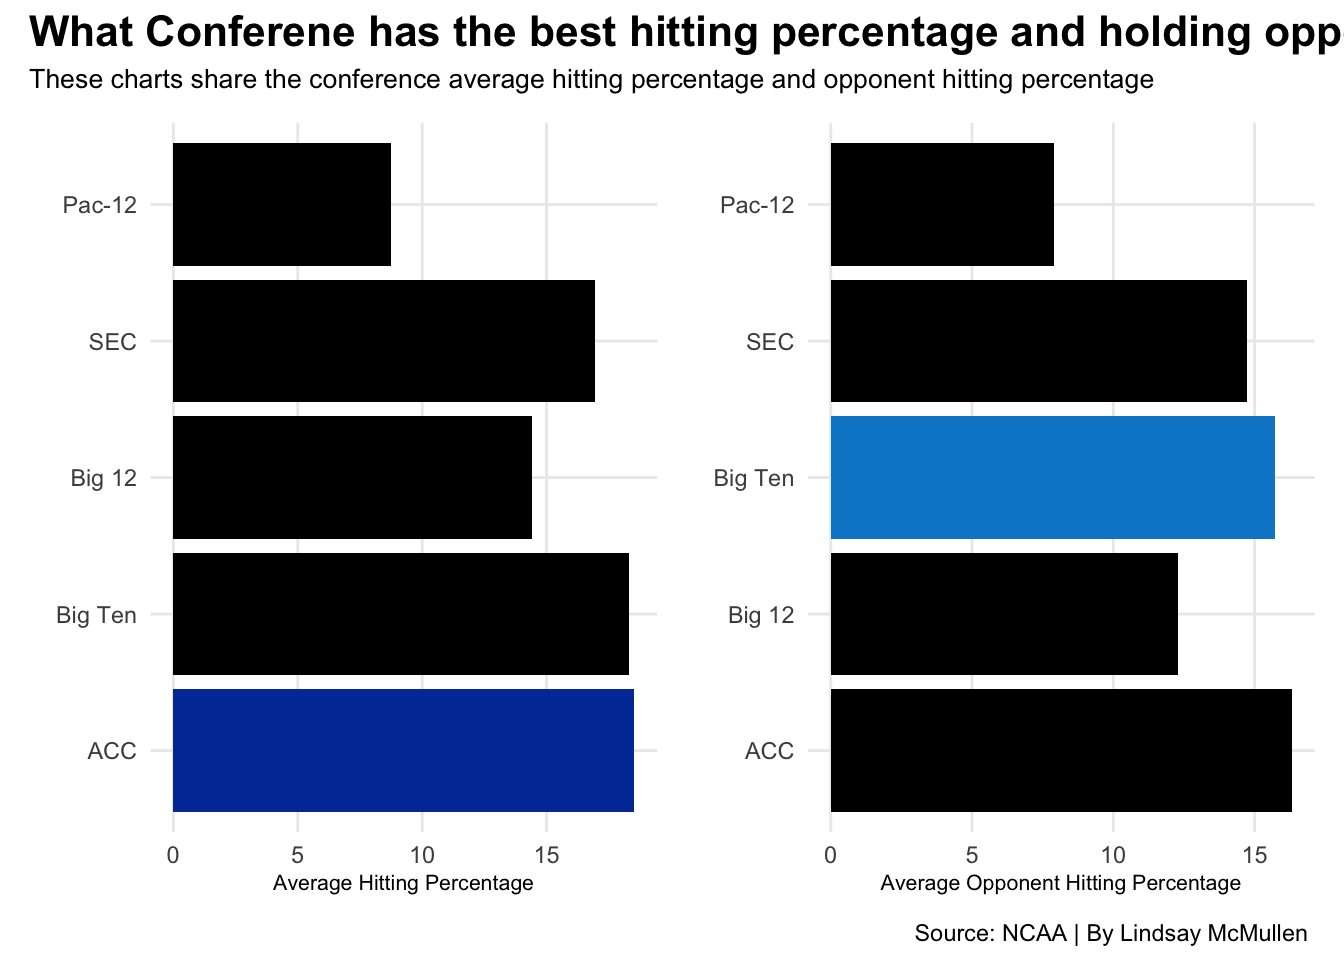
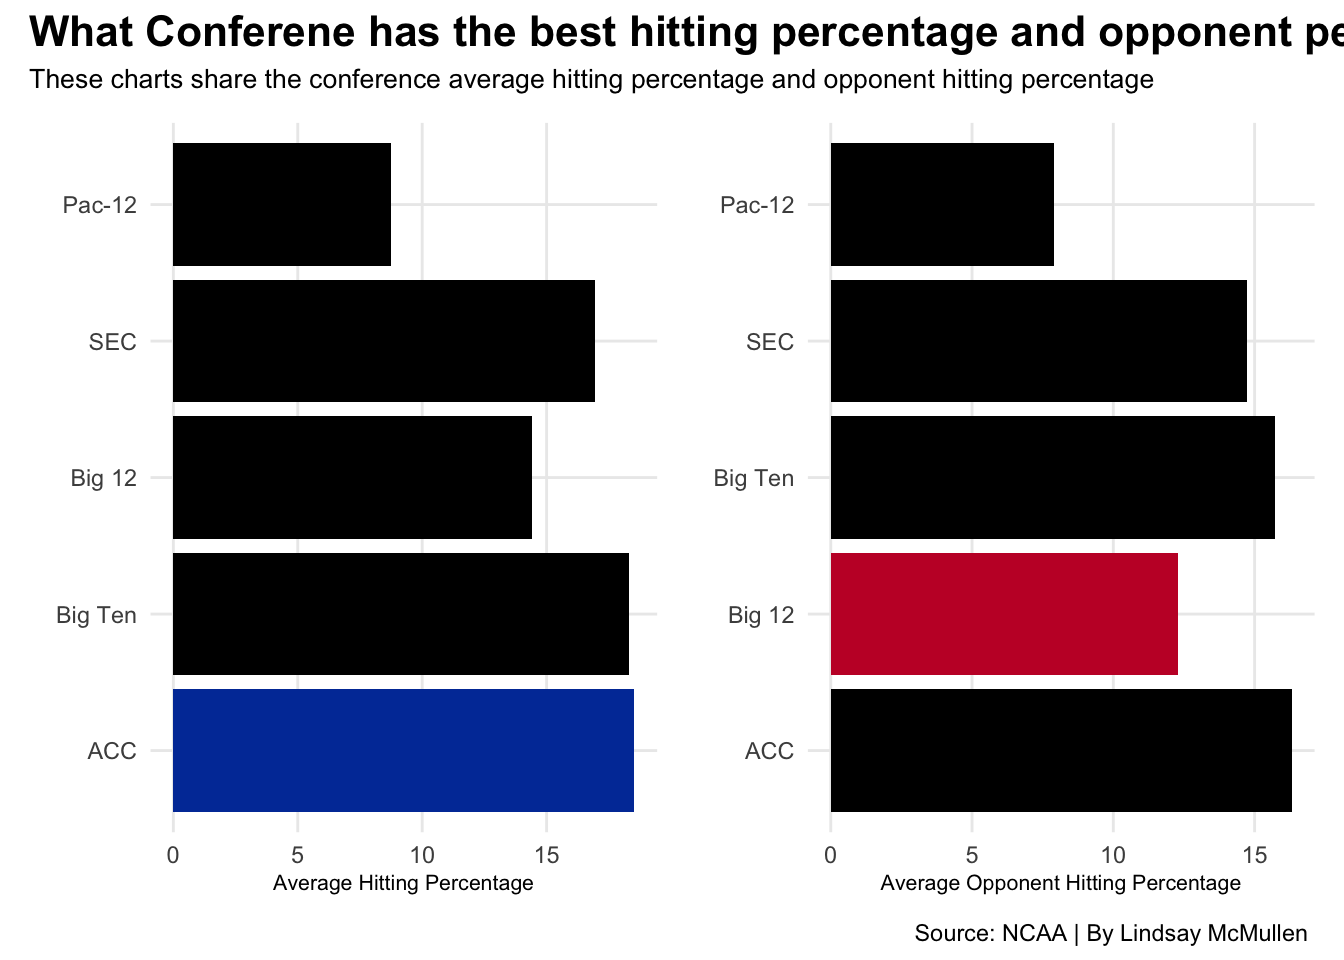
draft 2 - 11/16

Changed region(s): [[0.5938, 0.4062, 0.9688, 0.7188], [0.8125, 0.0, 1.0, 0.0625]]

diff --git a/posts/who-is-the-true-volleyball-conference/index.html b/posts/who-is-the-true-volleyball-conference/index.html
@@ -159,6 +159,7 @@ pre > code.sourceCode > span > a:first-child::before { text-decoration: underlin
                 <div class="quarto-category">women's volleyball</div>
                 <div class="quarto-category">ncaa conferences</div>
                 <div class="quarto-category">national championships</div>
+                <div class="quarto-category">viewership</div>
               </div>
                   </div>
   </div>
@@ -195,7 +196,7 @@ pre > code.sourceCode > span > a:first-child::before { text-decoration: underlin
 
 
 
-<p>The Big Ten historically has been known as the power conference of women’s volleyball, but lately that has become more of a conversation. With No.&nbsp;3 Texas joining the SEC along with No.&nbsp;2 Kentucky, spectators think SEC deserves the title. What people don’t realize is the Pac-12 should’ve been considered the power conference with the most national championships.</p>
+<p>The Big Ten historically has been known as the power conference of women’s volleyball, lately that has become more of a conversation. No.&nbsp;3 Texas became a new edition to the SEC alongside the No.&nbsp;2 Kentucky, spectators think SEC deserves the title. What people don’t realize is the Pac-12 should’ve been considered the power conference with the most national championships. The conversation has included the Big 10, SEC and ACC teams with their most recent dominate seasons over the past 5 years.</p>
 <div class="cell">
 <details class="code-fold">
 <summary>Code</summary>
@@ -214,7 +215,7 @@ pre > code.sourceCode > span > a:first-child::before { text-decoration: underlin
 <span id="cb1-13"><a href="#cb1-13" aria-hidden="true" tabindex="-1"></a>    <span class="at">total_attacks =</span> <span class="fu">mean</span>(hit_pct)</span>
 <span id="cb1-14"><a href="#cb1-14" aria-hidden="true" tabindex="-1"></a>  ) </span>
 <span id="cb1-15"><a href="#cb1-15" aria-hidden="true" tabindex="-1"></a></span>
-<span id="cb1-16"><a href="#cb1-16" aria-hidden="true" tabindex="-1"></a>big10 <span class="ot">&lt;-</span> pc <span class="sc">|&gt;</span> <span class="fu">filter</span>(conference <span class="sc">==</span> <span class="st">"Big Ten"</span>)</span>
+<span id="cb1-16"><a href="#cb1-16" aria-hidden="true" tabindex="-1"></a>big12 <span class="ot">&lt;-</span> pc <span class="sc">|&gt;</span> <span class="fu">filter</span>(conference <span class="sc">==</span> <span class="st">"Big 12"</span>)</span>
 <span id="cb1-17"><a href="#cb1-17" aria-hidden="true" tabindex="-1"></a>acc <span class="ot">&lt;-</span> pc <span class="sc">|&gt;</span> <span class="fu">filter</span>(conference <span class="sc">==</span> <span class="st">"ACC"</span>)</span>
 <span id="cb1-18"><a href="#cb1-18" aria-hidden="true" tabindex="-1"></a></span>
 <span id="cb1-19"><a href="#cb1-19" aria-hidden="true" tabindex="-1"></a>bar1 <span class="ot">&lt;-</span> <span class="fu">ggplot</span>() <span class="sc">+</span> </span>
@@ -229,7 +230,7 @@ pre > code.sourceCode > span > a:first-child::before { text-decoration: underlin
 <span id="cb1-28"><a href="#cb1-28" aria-hidden="true" tabindex="-1"></a></span>
 <span id="cb1-29"><a href="#cb1-29" aria-hidden="true" tabindex="-1"></a>bar2 <span class="ot">&lt;-</span> <span class="fu">ggplot</span>() <span class="sc">+</span> </span>
 <span id="cb1-30"><a href="#cb1-30" aria-hidden="true" tabindex="-1"></a>  <span class="fu">geom_bar</span>(<span class="at">data=</span>pc, <span class="fu">aes</span>(<span class="at">x=</span><span class="fu">reorder</span>(conference, opponent_hit_pct), <span class="at">weight=</span>opponent_hit_pct), <span class="at">fill=</span><span class="st">"#000000"</span>) <span class="sc">+</span> </span>
-<span id="cb1-31"><a href="#cb1-31" aria-hidden="true" tabindex="-1"></a>  <span class="fu">geom_bar</span>(<span class="at">data=</span>big10, <span class="fu">aes</span>(<span class="at">x=</span><span class="fu">reorder</span>(conference, opponent_hit_pct), <span class="at">weight=</span>opponent_hit_pct), <span class="at">fill=</span><span class="st">"#0088CE"</span>) <span class="sc">+</span></span>
+<span id="cb1-31"><a href="#cb1-31" aria-hidden="true" tabindex="-1"></a>  <span class="fu">geom_bar</span>(<span class="at">data=</span>big12, <span class="fu">aes</span>(<span class="at">x=</span><span class="fu">reorder</span>(conference, opponent_hit_pct), <span class="at">weight=</span>opponent_hit_pct), <span class="at">fill=</span><span class="st">"#C41230"</span>) <span class="sc">+</span></span>
 <span id="cb1-32"><a href="#cb1-32" aria-hidden="true" tabindex="-1"></a>  <span class="fu">coord_flip</span>() <span class="sc">+</span> </span>
 <span id="cb1-33"><a href="#cb1-33" aria-hidden="true" tabindex="-1"></a>  <span class="fu">labs</span>( </span>
 <span id="cb1-34"><a href="#cb1-34" aria-hidden="true" tabindex="-1"></a>    <span class="at">x=</span><span class="st">""</span>, </span>
@@ -239,7 +240,7 @@ pre > code.sourceCode > span > a:first-child::before { text-decoration: underlin
 <span id="cb1-38"><a href="#cb1-38" aria-hidden="true" tabindex="-1"></a></span>
 <span id="cb1-39"><a href="#cb1-39" aria-hidden="true" tabindex="-1"></a>bar1 <span class="sc">+</span> bar2 <span class="sc">+</span> </span>
 <span id="cb1-40"><a href="#cb1-40" aria-hidden="true" tabindex="-1"></a>  <span class="fu">plot_annotation</span>( </span>
-<span id="cb1-41"><a href="#cb1-41" aria-hidden="true" tabindex="-1"></a>    <span class="at">title =</span> <span class="st">"What Conferene has the best hitting percentage and holding opponent percentage over the past 5 years?"</span>,</span>
+<span id="cb1-41"><a href="#cb1-41" aria-hidden="true" tabindex="-1"></a>    <span class="at">title =</span> <span class="st">"What Conferene has the best hitting percentage and opponent percentage over the past 5 years?"</span>,</span>
 <span id="cb1-42"><a href="#cb1-42" aria-hidden="true" tabindex="-1"></a>    <span class="at">subtitle =</span> <span class="st">"These charts share the conference average hitting percentage and opponent hitting percentage"</span>,</span>
 <span id="cb1-43"><a href="#cb1-43" aria-hidden="true" tabindex="-1"></a>    <span class="at">caption =</span> <span class="st">"Source: NCAA | By Lindsay McMullen "</span></span>
 <span id="cb1-44"><a href="#cb1-44" aria-hidden="true" tabindex="-1"></a>  )  <span class="sc">&amp;</span> </span>
@@ -258,7 +259,7 @@ pre > code.sourceCode > span > a:first-child::before { text-decoration: underlin
 </div>
 </div>
 </div>
-<p>The main</p>
+<p>The main statistics that viewers and announcers look at when it comes to determining a conference’s dominance is hitting percentage and opponent hitting percentage. The ACC has had the highest hitting percentage with teams like Pitt, Louisville and new edition Stanford leading the conference. The Big 12 over the past years has had the best opponent hitting percentage, the lower the number the better.</p>
 <div class="cell">
 <details class="code-fold">
 <summary>Code</summary>
@@ -300,8 +301,7 @@ pre > code.sourceCode > span > a:first-child::before { text-decoration: underlin
 </div>
 </div>
 </div>
-<p>Words words words words words. Words words words words words. Words words words words words. Words words words words words. Words words words words words. Words words words words words. Words words words words words. Words words words words words. Words words words words words. Words words words words words. Words words words words words.</p>
-<p>Words words words words words. Words words words words words. Words words words words words. Words words words words words. Words words words words words. Words words words words words. Words words words words words.</p>
+<p>During the past 5 years, there has been new additions and removals of the Power 5 now Power 4 conferences. The Pac-12 historically was a power volleyball conference with Stanford, UCLA, USC, Oregon and Washington but now they are divided. The Big 10 added 4 new teams that are strong teams usually in the 25. The SEC has added Oklahoma and Texas, and Texas is a powerful volleyball team that has grown the competition in the SEC. The Big 12 got new additions with Colorado being in the top 25 this year.</p>
 <div class="cell">
 <details class="code-fold">
 <summary>Code</summary>
@@ -337,7 +337,8 @@ pre > code.sourceCode > span > a:first-child::before { text-decoration: underlin
 </div>
 </div>
 </div>
-<p>Words words words words words. Words words words words words. Words words words words words. Words words words words words. Words words words words words. Words words words words words. Words words words words words. Words words words words words. Words words words words words. Words words words words words. Words words words words words. Words words words words words.</p>
+<p>The ACC has had teams in the national championship and final four every year, but they have yet to win a title. The Pac-12 leads the national title race with 17 and Stanford leading the conference. The Big 12 is 2nd or currently leads the national championship race with 15. The Big 10 has 13 national titles.</p>
+<p>What conference will win the next one?</p>
 <div class="cell">
 <details class="code-fold">
 <summary>Code</summary>

diff --git a/index.html b/index.html
@@ -195,7 +195,7 @@ window.Quarto = {
 <!-- margin-sidebar -->
     <div id="quarto-margin-sidebar" class="sidebar margin-sidebar">
         
-    <h5 class="quarto-listing-category-title">Categories</h5><div class="quarto-listing-category category-default"><div class="category" data-category="">All <span class="quarto-category-count">(1)</span></div><div class="category" data-category="bmF0aW9uYWwlMjBjaGFtcGlvbnNoaXBz">national championships <span class="quarto-category-count">(1)</span></div><div class="category" data-category="bmNhYSUyMGNvbmZlcmVuY2Vz">ncaa conferences <span class="quarto-category-count">(1)</span></div><div class="category" data-category="d29tZW4ncyUyMHZvbGxleWJhbGw=">women's volleyball <span class="quarto-category-count">(1)</span></div></div></div>
+    <h5 class="quarto-listing-category-title">Categories</h5><div class="quarto-listing-category category-default"><div class="category" data-category="">All <span class="quarto-category-count">(1)</span></div><div class="category" data-category="bmF0aW9uYWwlMjBjaGFtcGlvbnNoaXBz">national championships <span class="quarto-category-count">(1)</span></div><div class="category" data-category="bmNhYSUyMGNvbmZlcmVuY2Vz">ncaa conferences <span class="quarto-category-count">(1)</span></div><div class="category" data-category="dmlld2Vyc2hpcA==">viewership <span class="quarto-category-count">(1)</span></div><div class="category" data-category="d29tZW4ncyUyMHZvbGxleWJhbGw=">women's volleyball <span class="quarto-category-count">(1)</span></div></div></div>
 <!-- main -->
 <main class="content quarto-banner-title-block column-page-left" id="quarto-document-content">
 
@@ -209,7 +209,7 @@ window.Quarto = {
 
 <div class="quarto-listing quarto-listing-container-default" id="listing-listing">
 <div class="list quarto-listing-default">
[2 lines of base64/hex data omitted]
 <div class="thumbnail"><a href="./posts/who-is-the-true-volleyball-conference/index.html" class="no-external">
 
 <img loading="lazy" src="./posts/who-is-the-true-volleyball-conference/image.png" class="thumbnail-image">
@@ -227,9 +227,11 @@ window.Quarto = {
 
 <div class="listing-category" onclick="window.quartoListingCategory('bmF0aW9uYWwlMjBjaGFtcGlvbnNoaXBz'); return false;">national championships</div>
 
+<div class="listing-category" onclick="window.quartoListingCategory('dmlld2Vyc2hpcA=='); return false;">viewership</div>
+
 </div>
 <div class="delink listing-description"><a href="./posts/who-is-the-true-volleyball-conference/index.html" class="no-external">
-The Big Ten historically has been known as the power conference of women’s volleyball, but lately that has become more of a conversation. With No.&nbsp;3 Texas joining the SEC…
+The Big Ten historically has been known as the power conference of women’s volleyball, lately that has become more of a conversation. No.&nbsp;3 Texas became a new edition to the…
 </a></div>
 </div>
 <div class="metadata">
